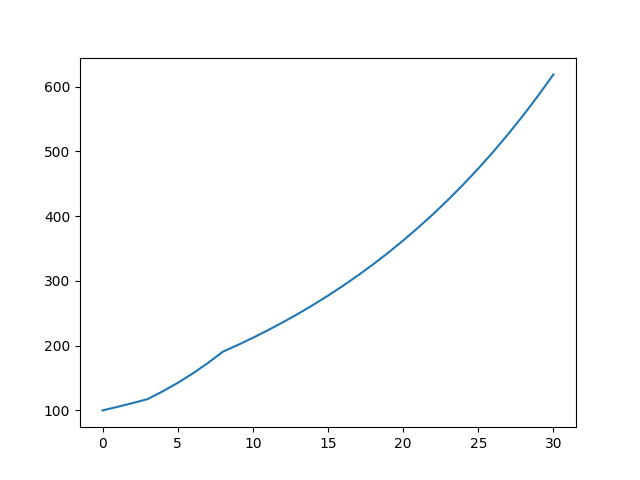
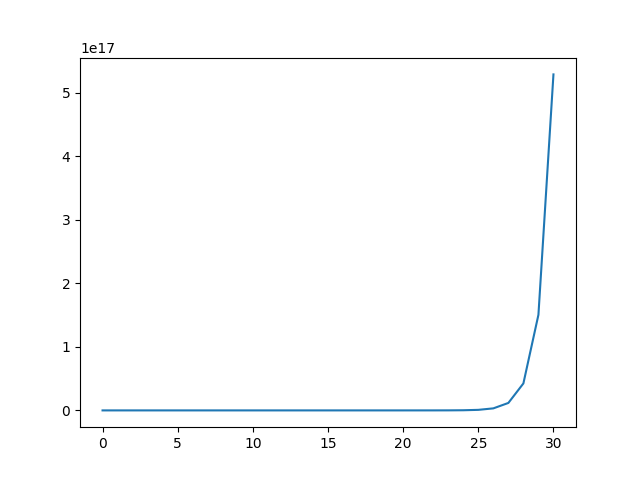
Fix erro no calculo da nova temp

diff --git a/simulation.py b/simulation.py
@@ -12,19 +12,6 @@ import matplotlib.pyplot as plt
 import math
 import random
 
-def simulate_growth(N, duration, temp_changes, max_target_pop, control_duration, strain = ""):
-    ## strain = "" significa que o parâmetro é opcional e o valor padrão é uma string vazia
-    """ simulate_growth
-    Essa função vai receber os seguintes parâmetros:
-    - Dados: dicionário com os dados da tabela
-    - N: população inicial
-    - tempo_de_simulacao: duração da simulação
-    - temp_changes: dicionário com as mudanças de temperatura
-    - max_target_pop: população máxima
-    - control_tempo_de_simulacao: duração do controle
-    - linhagem: variedade (pode ou não ser incluído)
-"""
-
 def simular_crescimento(dados, N, tempo_de_simulacao = 30, temperatura = 0, linhagem = ""):
     # pegar o valor de r da tabela e a população inicial, iniciar variáveis (armazenar em variáveis os resultados que queremos)
     resultados = [] # criar lista dos resultados
@@ -50,9 +37,9 @@ def simular_crescimento(dados, N, tempo_de_simulacao = 30, temperatura = 0, linh
             temperatura = new_temp
         
         if temperatura < temps[1]: # se a temperatura for menor que a do meio
-            new_r = (temps[1] - temperatura) * (float(dados[linhagem][str(temps[1])]) - float(dados[linhagem][str(temps[0])])) / (temps[1] - temps[0]) + float(dados[linhagem][str(temps[0])])
+            new_r = temperatura * ((float(dados[linhagem][str(temps[1])]) - float(dados[linhagem][str(temps[0])])) / (temps[1] - temps[0]) + float(dados[linhagem][str(temps[0])]))
         elif temperatura > temps[1]: # se a temperatura for maior que a do meio
-            new_r = (float(dados[linhagem][str(temps[2])]) - float(dados[linhagem][str(temps[1])])) / (temps[2] - temps[1]) + float(dados[linhagem][str(temps[1])])
+            new_r = temperatura * ((float(dados[linhagem][str(temps[2])]) - float(dados[linhagem][str(temps[1])])) / (temps[2] - temps[1]) + float(dados[linhagem][str(temps[1])]))
         else:
             new_r = float(dados[linhagem][str(temps[1])])
         
@@ -95,8 +82,6 @@ def main(): # função principal
             for line in file: 
                 dados = line.split() # separar os dados da linha
                 try: # a primeira coluna é uma string e informa linhagem, as próximas colunas são float
-                    if not dados[0].isalpha(): # verificar se o primeiro item é uma string
-                        raise ValueError
                     float(dados[1]) # verificar se o segundo item é um número
                 except(ValueError):
                     print("A primeira coluna deve ser uma string e as próximas colunas devem ser números")
